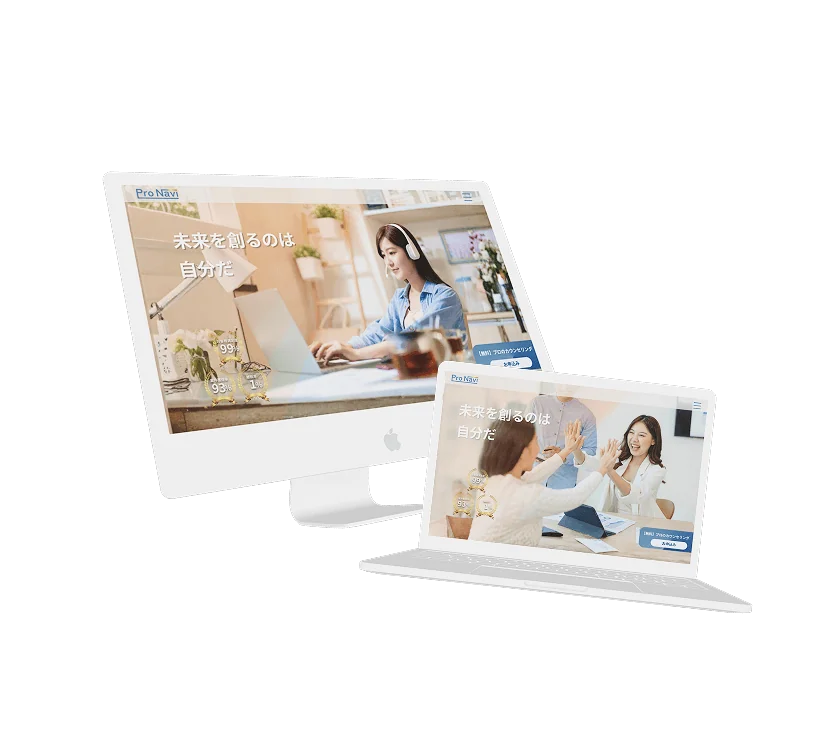
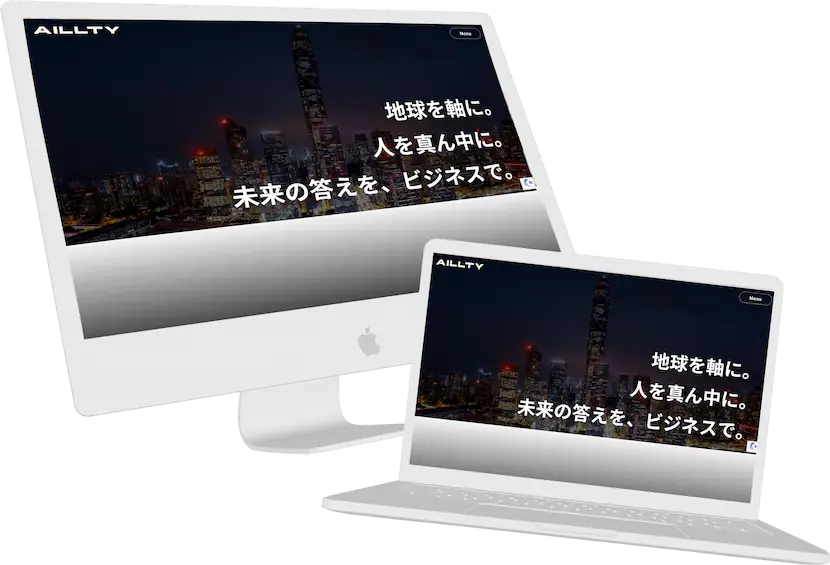
portfolio update

diff --git a/scss/_hero.scss b/scss/_hero.scss
@@ -283,16 +283,16 @@
 
     &__image-list {
         position: relative;
-        width: 165%;
+        width: 135%;
 
 
         li {
-            width: 160%;
-            transform: translate(-14rem, -2rem);
+            width: 135%;
+            transform: translate(-9rem, -2rem);
 
             @include m.sp {
-                width: 120%;
-                transform: translate(-3rem, -2rem);
+                width: 100%;
+                transform: translate(0rem, 1rem);
             }
         }
 
@@ -300,11 +300,23 @@
             position: absolute;
             top: 0;
             left: 0;
-            transform: translate(-14rem, -8rem);
+            transform: translate(-9rem, -5rem);
 
             @include m.sp {
-                width: 120%;
-                transform: translate(-3rem, -2rem);
+                width: 100%;
+                transform: translate(0rem, 0rem);
+            }
+        }
+
+        li:nth-child(3) {
+            position: absolute;
+            top: 0;
+            left: 0;
+            transform: translate(-9rem, -2rem);
+
+            @include m.sp {
+                width: 100%;
+                transform: translate(0rem, 1rem);
             }
         }
     }
@@ -314,7 +326,7 @@
 .fv__image-list.fadein {
     li {
         opacity: 0;
-        animation: fade 10s ease infinite;
+        animation: fade 15s ease infinite;
         will-change: opacity;
     }
 
@@ -325,6 +337,10 @@
     li:nth-child(2) {
         animation-delay: 5s;
     }
+
+    li:nth-child(3) {
+        animation-delay: 10s;
+    }
 }
 
 @keyframes fade {
@@ -332,15 +348,15 @@
         opacity: 0;
     }
 
-    15% {
-        opacity: 0.9;
-    }
-
-    35% {
+    5% {
         opacity: 1;
     }
 
-    50% {
+    28% {
+        opacity: 1;
+    }
+
+    33% {
         opacity: 0;
     }
 

diff --git a/css/style.css b/css/style.css
@@ -388,34 +388,46 @@ main {
 }
 .fv__image-list {
   position: relative;
-  width: 165%;
+  width: 135%;
 }
 .fv__image-list li {
-  width: 160%;
-  transform: translate(-14rem, -2rem);
+  width: 135%;
+  transform: translate(-9rem, -2rem);
 }
 @media (max-width: 767px) {
   .fv__image-list li {
-    width: 120%;
-    transform: translate(-3rem, -2rem);
+    width: 100%;
+    transform: translate(0rem, 1rem);
   }
 }
 .fv__image-list li:nth-child(2) {
   position: absolute;
   top: 0;
   left: 0;
-  transform: translate(-14rem, -8rem);
+  transform: translate(-9rem, -5rem);
 }
 @media (max-width: 767px) {
   .fv__image-list li:nth-child(2) {
-    width: 120%;
-    transform: translate(-3rem, -2rem);
+    width: 100%;
+    transform: translate(0rem, 0rem);
+  }
+}
+.fv__image-list li:nth-child(3) {
+  position: absolute;
+  top: 0;
+  left: 0;
+  transform: translate(-9rem, -2rem);
+}
+@media (max-width: 767px) {
+  .fv__image-list li:nth-child(3) {
+    width: 100%;
+    transform: translate(0rem, 1rem);
   }
 }
 
 .fv__image-list.fadein li {
   opacity: 0;
-  animation: fade 10s ease infinite;
+  animation: fade 15s ease infinite;
   will-change: opacity;
 }
 .fv__image-list.fadein li:nth-child(1) {
@@ -424,18 +436,21 @@ main {
 .fv__image-list.fadein li:nth-child(2) {
   animation-delay: 5s;
 }
+.fv__image-list.fadein li:nth-child(3) {
+  animation-delay: 10s;
+}
 
 @keyframes fade {
   0% {
     opacity: 0;
   }
-  15% {
-    opacity: 0.9;
-  }
-  35% {
+  5% {
     opacity: 1;
   }
-  50% {
+  28% {
+    opacity: 1;
+  }
+  33% {
     opacity: 0;
   }
   100% {

diff --git a/index.html b/index.html
@@ -96,6 +96,7 @@
           <ul class="fv__image-list fadein">
             <li><img src="img/hero/hero_img1.webp" alt="制作実績モックアップ" loading="eager"></li>
             <li><img src="img/hero/hero_img2.webp" alt="制作実績モックアップ2" loading="eager"></li>
+            <li><img src="img/hero/hero_img3.webp" alt="制作実績モックアップ2" loading="eager"></li>
           </ul>
         </div>
       </div>
